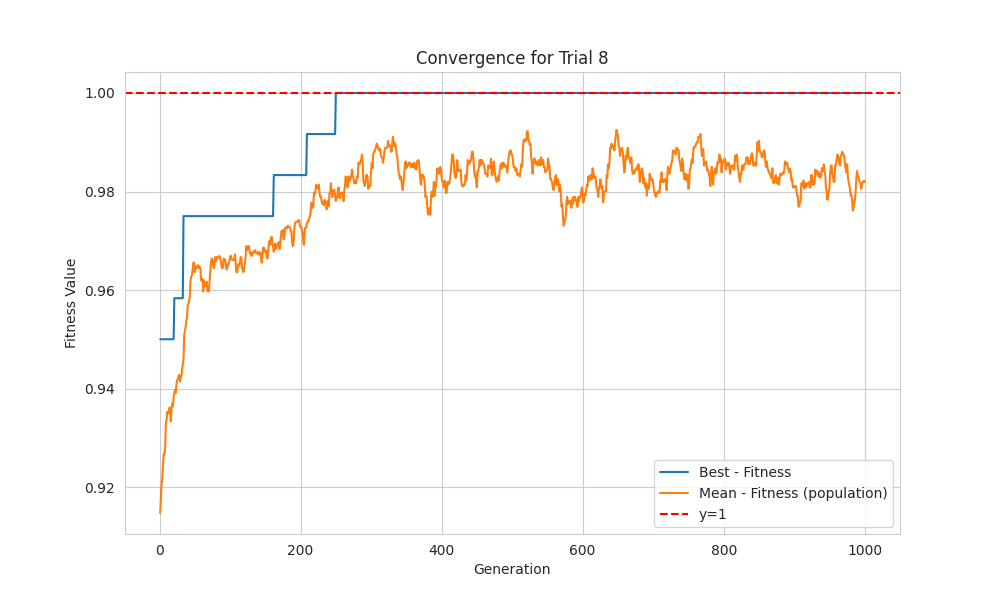
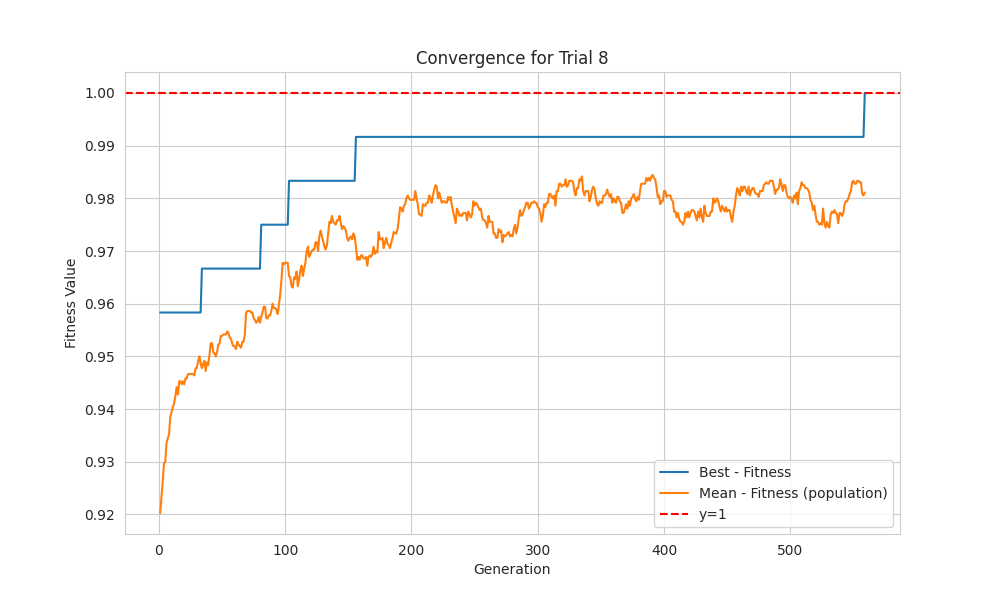
ploting convergence with std

diff --git a/n-queens/main.py b/n-queens/main.py
@@ -1,4 +1,4 @@
-from init_functions import create_initial_population, get_info_from_base, print_population
+from init_functions import create_initial_population, get_info_from_base, expand_df, insert_values
 from evolu_algo import generation_manager, calc_fitness
 from plot_functions import plot_convergence, plot_boxplot_trials_single_label, save_trial_results
 import time
@@ -17,7 +17,7 @@ if __name__ == "__main__":
     init = time.time()
     
 
-    for trial in range(1, params["N_TESTS"]):
+    for trial in range(0, params["N_TESTS"]):
         print(f'Starting Trial {trial}')
         init_time_trial = time.time()
         best_values = []
@@ -26,24 +26,38 @@ if __name__ == "__main__":
 
         for ind in population:
             ind.fitness = calc_fitness(ind)
-
-        for gen in range(1, params["GEN"]+1):
+        
+        gen = 0
+        best = 0
+        while best < 1:
             population = generation_manager(population=population, params=params, gen_number=gen)
             best_individual = max(population, key=lambda x: x.fitness)
             mean_fitness = np.mean([ind.fitness for ind in population])
             mean_values.append(mean_fitness)
             best_values.append(best_individual.fitness)
+            best = best_individual.fitness
+            gen+=1
 
+        print(f'Result achieved with {gen} generations')
         end_time_trial = time.time()
 
         time_spent_each_gen.append(end_time_trial-init_time_trial)
         best_values_each_gen.append(best_individual.fitness)
         mean_values_each_gen.append(mean_fitness)
 
-        df_fitness[trial] = best_values
-        plot_convergence(generation=params["GEN"], best_values=best_values, mean_values=mean_values, n_dim=params["DIM"], save=True, trial=trial)
+
+        # Expand dfs to fill 
+        df_fitness = expand_df(df_fitness, len(best_values))
+        df_mean = expand_df(df_mean, len(mean_values))
+
+        # Insert values into df
+        df_fitness = insert_values(df_fitness, best_values, trial)
+        df_mean = insert_values(df_mean, mean_values, trial)
+
+        plot_convergence(generation=gen, best_values=best_values, mean_values=mean_values, n_dim=params["DIM"], save=True, trial=trial)
     
     df_fitness.to_csv(f"results_{params['DIM']}_queens/df_fitness.csv")
+    df_mean.to_csv(f"results_{params['DIM']}_queens/df_mean.csv")
 
     plot_boxplot_trials_single_label(best_values_each_gen=best_values_each_gen, label=params["DIM"])
     save_trial_results(list_to_save=best_values_each_gen, label=params["DIM"], file_name='fitness')

diff --git a/n-queens/plot_functions.py b/n-queens/plot_functions.py
@@ -48,6 +48,7 @@ def save_trial_results(list_to_save, label, file_name):
 
 
 def plot_boxplot_trials_single_label(best_values_each_gen, label):
+    print(best_values_each_gen)
     label = str(label)
     folder_path = f'results_{label}_queens'
 
@@ -116,12 +117,45 @@ def plot_box_plots_all_labels(values_dict: dict, type: str):
     plt.savefig(figure_path)
 
 
+def plot_full_convergence(label: str):
+    df_fitness = pd.read_csv(f'results_{label}_queens/df_fitness.csv', index_col=0)
+    df_mean = pd.read_csv(f'results_{label}_queens/df_mean.csv', index_col=0)
+
+    # Calculate the mean and standard deviation for each generation
+    mean_fitness = df_fitness.mean(axis=1)
+    std_fitness = df_fitness.std(axis=1)
+
+    mean_mean = df_mean.mean(axis=1)
+    std_mean = df_mean.std(axis=1)
+
+    # Create a line plot for the mean fitness values
+    plt.figure(figsize=(10, 6))
+    sns.set_style("whitegrid")
+    sns.lineplot(data=mean_fitness, label="Fitness")
+    sns.lineplot(data=mean_mean, label="Mean")
+
+    # Plot the standard deviation as error bars
+    plt.fill_between(mean_fitness.index, mean_fitness - std_fitness, mean_fitness + std_fitness, alpha=0.3, color="blue", label="STD Fitness")
+    plt.fill_between(mean_mean.index, mean_mean - std_mean, mean_mean + std_mean, alpha=0.3, color="orange", label="STD Mean")
+
+
+    plt.xlabel("Generation Number")
+    plt.ylabel("Fitness Value")
+    plt.title(f"Convergence Plot of Genetic Algorithm with Standard Deviation for {label} queens")
+    plt.legend(loc="upper right")
+    plt.show()
+
+
+
 if __name__ == "__main__":
     labels = ['8', '16', '32', '64', '128']
     trials_values_fitness = read_results(labels=labels, type="fitness")
     # trials_values_mean = read_results(labels=labels, type="mean")
     trials_values_time = read_results(labels=labels, type="time")
 
-    plot_box_plots_all_labels(values_dict=trials_values_fitness, type="fitness")
-    plot_box_plots_all_labels(values_dict=trials_values_time, type="time")
+    plot_full_convergence('8')
+    plot_full_convergence('16')
+
+    # plot_box_plots_all_labels(values_dict=trials_values_fitness, type="fitness")
+    # plot_box_plots_all_labels(values_dict=trials_values_time, type="time")
     # plot_box_plots_all_labels(values_dict=trials_values_fitness, type="mean")

diff --git a/n-queens/init_functions.py b/n-queens/init_functions.py
@@ -1,6 +1,7 @@
 import random
 from queen import Queen, Individual
 from evolu_algo import calc_fitness
+import pandas as pd
 
 def get_info_from_base(base: str):
     with open (f'inputs/{base}') as f:
@@ -34,3 +35,31 @@ def print_population(population: list[Individual]):
         print(f'Individual: {i+1}')
 
         print(ind)
+    
+def expand_df(df: pd.DataFrame, expansion: int):
+    index_length = len(df.index)
+    if index_length < expansion:
+        # Calculate the number of repetitions needed for the last element
+        repetitions = expansion - index_length
+        # Repeat the last element to match the lengths
+        new_index = pd.Index(range(0, index_length + repetitions))
+        
+        # Reindex the DataFrame with the repeated index
+        df = df.reindex(new_index)
+
+    df = df.ffill()
+    return df
+
+def insert_values(df: pd.DataFrame, values: list, column: int):
+    new_values = values.copy()
+    last_value = new_values[-1]
+    num_repeats = len(df.index) - len(new_values)
+    
+    if num_repeats < 0:
+        num_repeats = 0
+    
+    new_values.extend([last_value] * num_repeats)
+    
+    df[column] = new_values
+    
+    return df
